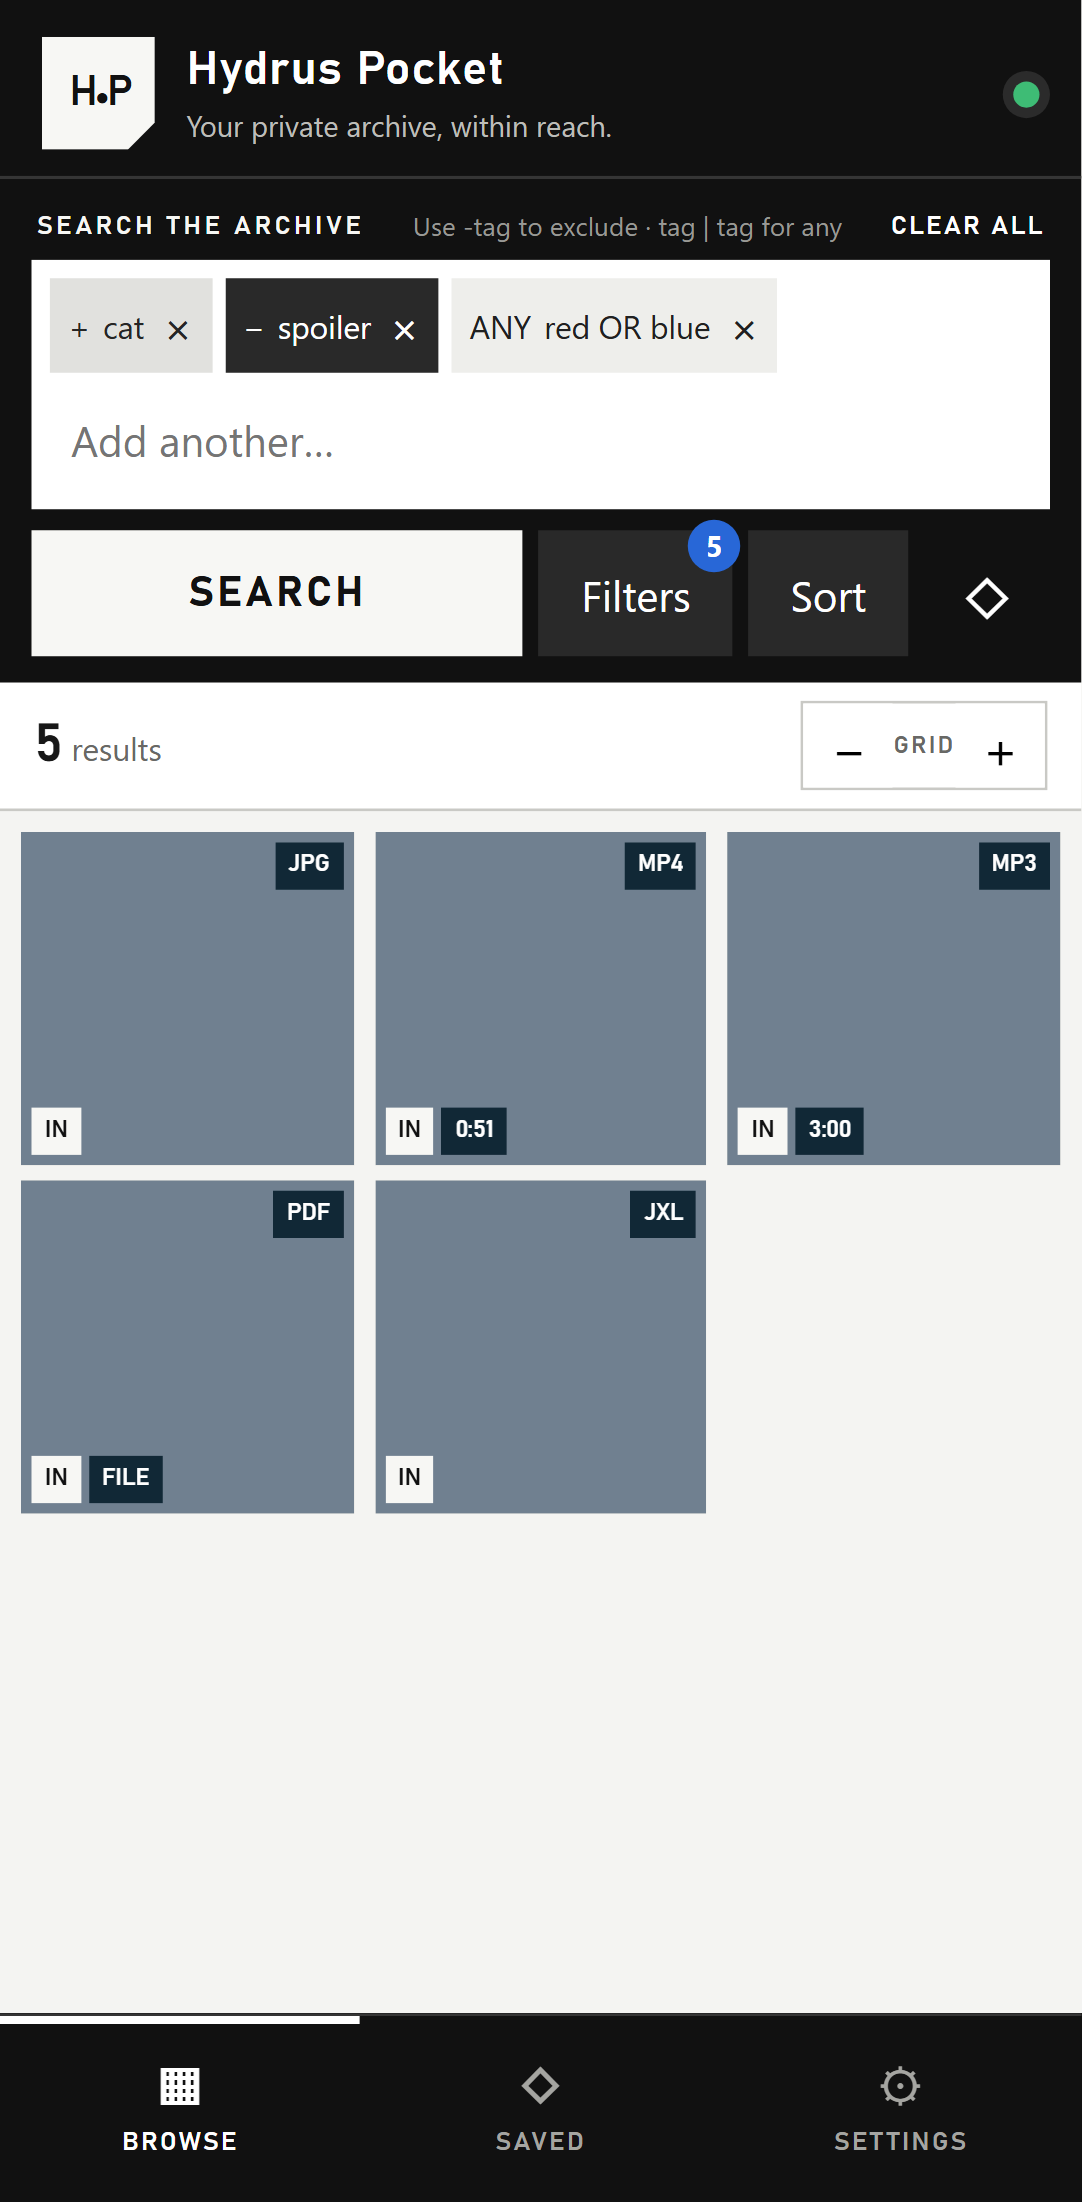
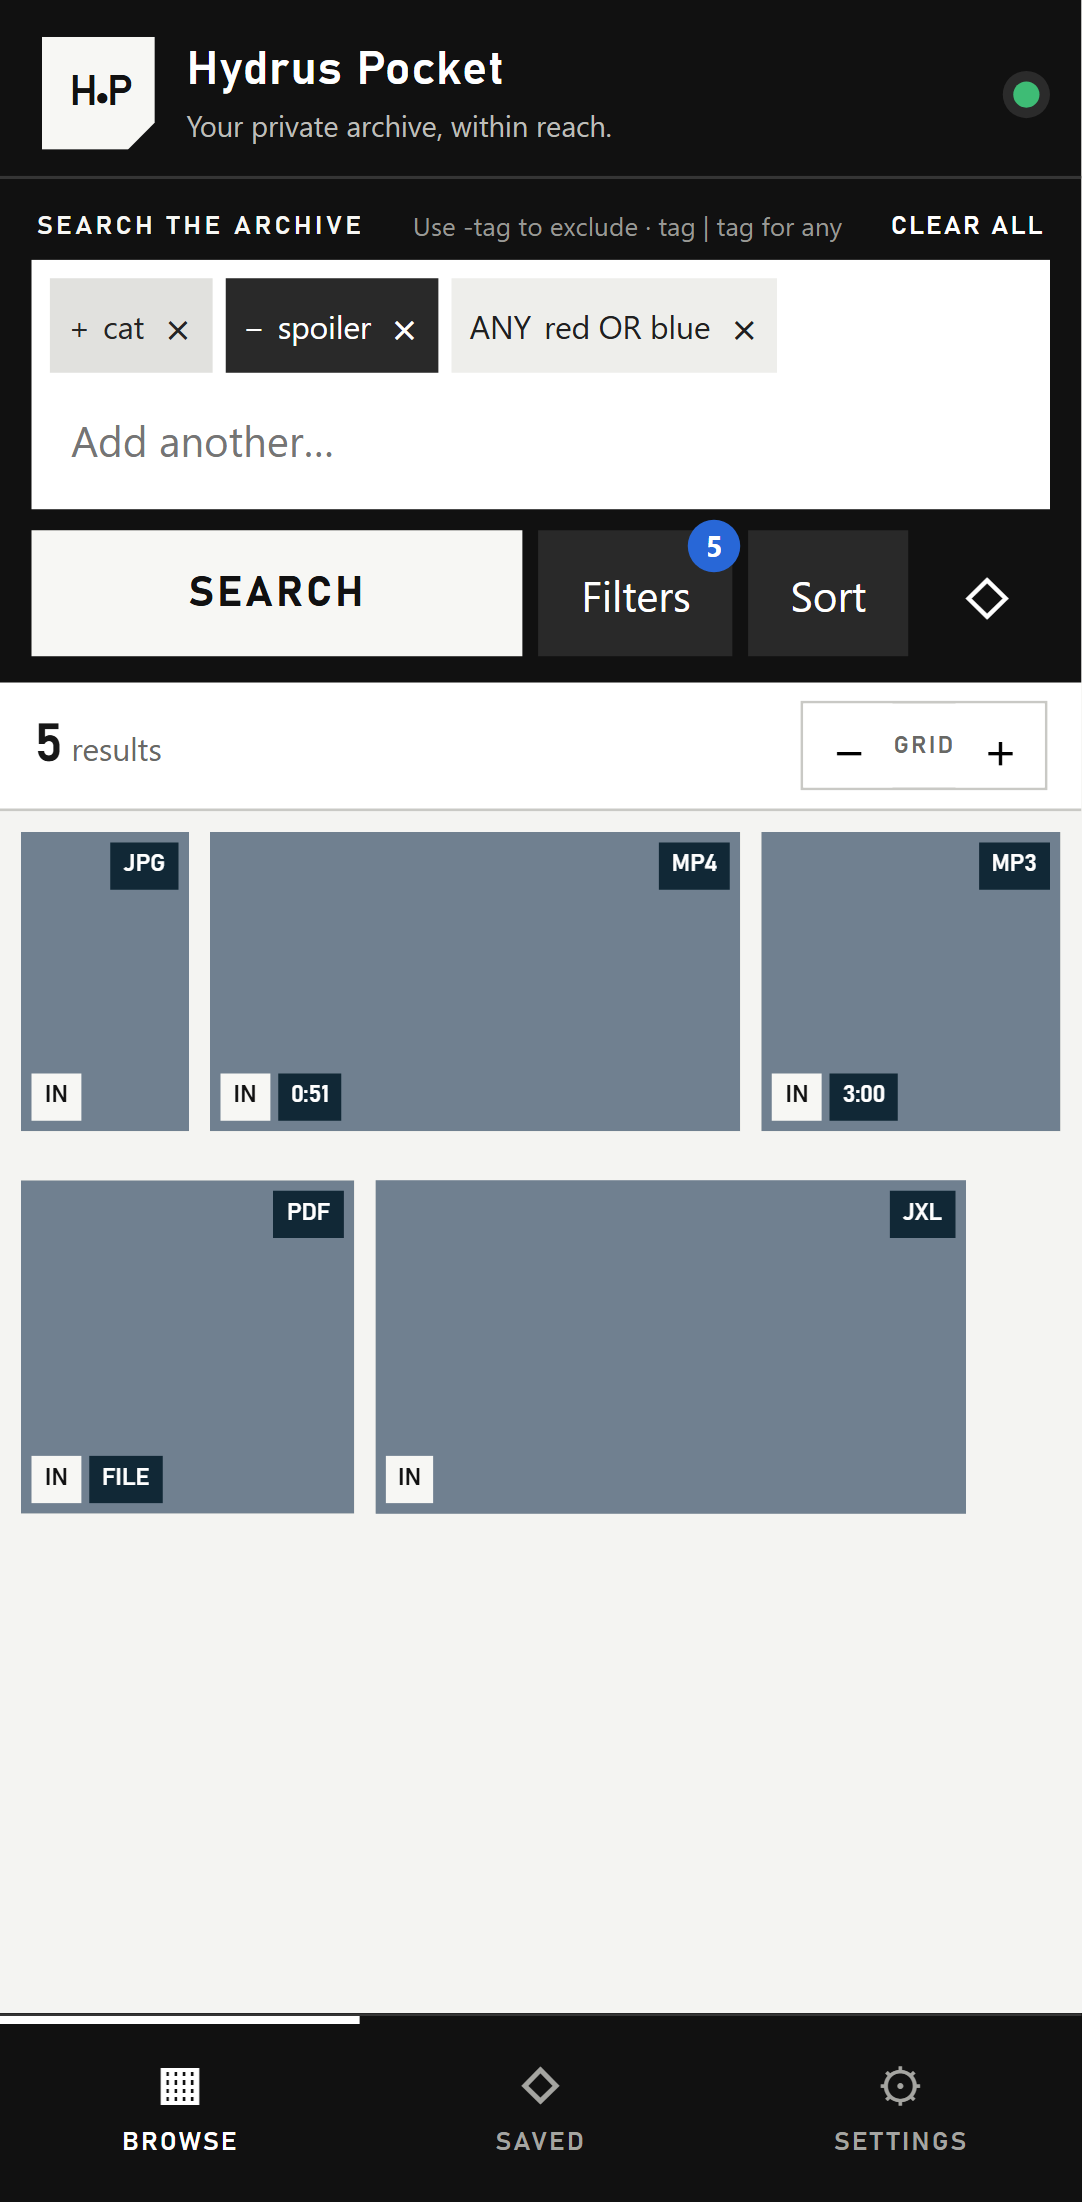
add a justified aspect-ratio gallery

Changed region(s): [[0.0, 0.3706, 0.976, 0.7103]]

diff --git a/src/components/Media.tsx b/src/components/Media.tsx
@@ -1,6 +1,7 @@
 import { useCallback, useEffect, useMemo, useRef, useState } from "react";
 import { useVirtualizer } from "@tanstack/react-virtual";
 import { api } from "../api";
+import { buildJustifiedRows } from "../galleryLayout";
 import { classifyMedia, mediaFileUrl, needsHydrusRender } from "../media";
 import {
   SESSION_MEDIA_CACHE_LIMIT,
@@ -166,29 +167,30 @@ export function ResultsGrid({
     Math.min(5, width > 850 ? Math.max(density, 5) : density),
   );
   const gap = 8;
-  const cell = (width - gap * (cols - 1)) / cols;
-  const rows = Math.ceil(fileIds.length / cols);
+  const targetHeight = (width - gap * (cols - 1)) / cols;
+  const rows = useMemo(
+    () => buildJustifiedRows(fileIds, media, width, targetHeight, gap),
+    [fileIds, media, width, targetHeight],
+  );
   const virtual = useVirtualizer({
-    count: rows,
+    count: rows.length,
     getScrollElement: () => parent.current,
-    estimateSize: () => cell + gap,
+    estimateSize: (index) => (rows[index]?.height ?? targetHeight) + gap,
     overscan: 4,
   });
   useEffect(() => {
     const saved = Number(localStorage.getItem(storageKey) ?? 0);
     const frame = requestAnimationFrame(() => virtual.scrollToOffset(saved));
     return () => cancelAnimationFrame(frame);
-  }, [virtual, storageKey, rows, width]);
+  }, [virtual, storageKey, rows.length, width]);
   const visible = virtual.getVirtualItems();
   useEffect(() => {
     const ids = virtual
       .getVirtualItems()
-      .flatMap((row) =>
-        fileIds.slice(row.index * cols, row.index * cols + cols),
-      )
+      .flatMap((row) => rows[row.index]?.items.map((item) => item.fileId) ?? [])
       .filter((id) => !media.has(id));
     if (ids.length) onNeed([...new Set(ids)].slice(0, 256));
-  }, [virtual, cols, fileIds, media, onNeed]);
+  }, [virtual, rows, media, onNeed]);
   return (
     <div
       className="grid-scroll"
@@ -204,21 +206,23 @@ export function ResultsGrid({
       }}
     >
       <div className="virtual-grid" style={{ height: virtual.getTotalSize() }}>
-        {visible.map((row) => (
-          <div
-            className="grid-row"
-            key={row.key}
-            style={{
-              height: cell,
-              transform: `translateY(${row.start}px)`,
-              gridTemplateColumns: `repeat(${cols},1fr)`,
-            }}
-          >
-            {fileIds
-              .slice(row.index * cols, row.index * cols + cols)
-              .map((id, col) => {
+        {visible.map((virtualRow) => {
+          const row = rows[virtualRow.index];
+          if (!row) return null;
+          return (
+            <div
+              className="grid-row"
+              key={virtualRow.key}
+              style={{
+                height: row.height,
+                transform: `translateY(${virtualRow.start}px)`,
+                gridTemplateColumns: row.items
+                  .map((item) => `${item.width}px`)
+                  .join(" "),
+              }}
+            >
+              {row.items.map(({ fileId: id, index }) => {
                 const m = media.get(id);
-                const index = row.index * cols + col;
                 return (
                   <button
                     className={`media-card ${selectedId === id ? "selected" : ""}`}
@@ -249,8 +253,9 @@ export function ResultsGrid({
                   </button>
                 );
               })}
-          </div>
-        ))}
+            </div>
+          );
+        })}
       </div>
     </div>
   );

diff --git a/src/galleryLayout.ts b/src/galleryLayout.ts
@@ -1,0 +1,53 @@
+import type { Media } from "./types";
+
+export type GalleryLayoutItem = {
+  fileId: number;
+  index: number;
+  ratio: number;
+  width: number;
+};
+
+export type GalleryLayoutRow = {
+  height: number;
+  items: GalleryLayoutItem[];
+};
+
+export function mediaAspectRatio(media?: Pick<Media, "width" | "height">) {
+  if (!media?.width || !media.height) return 1;
+  return Math.max(0.35, Math.min(4, media.width / media.height));
+}
+
+export function buildJustifiedRows(
+  fileIds: number[],
+  media: Map<number, Media>,
+  containerWidth: number,
+  targetHeight: number,
+  gap = 8,
+) {
+  const rows: GalleryLayoutRow[] = [];
+  let pending: Omit<GalleryLayoutItem, "width">[] = [];
+  let ratioTotal = 0;
+
+  const closeRow = (last: boolean) => {
+    if (!pending.length) return;
+    const available = Math.max(1, containerWidth - gap * (pending.length - 1));
+    const fittedHeight = available / ratioTotal;
+    const height = last ? Math.min(targetHeight, fittedHeight) : fittedHeight;
+    rows.push({
+      height,
+      items: pending.map((item) => ({ ...item, width: item.ratio * height })),
+    });
+    pending = [];
+    ratioTotal = 0;
+  };
+
+  fileIds.forEach((fileId, index) => {
+    const ratio = mediaAspectRatio(media.get(fileId));
+    pending.push({ fileId, index, ratio });
+    ratioTotal += ratio;
+    const projected = ratioTotal * targetHeight + gap * (pending.length - 1);
+    if (projected >= containerWidth) closeRow(false);
+  });
+  closeRow(true);
+  return rows;
+}

diff --git a/src/galleryLayout.test.ts b/src/galleryLayout.test.ts
@@ -1,0 +1,39 @@
+import { describe, expect, it } from "vitest";
+import { buildJustifiedRows, mediaAspectRatio } from "./galleryLayout";
+import type { Media } from "./types";
+
+const item = (fileId: number, width: number, height: number) =>
+  ({ fileId, width, height }) as Media;
+
+describe("justified gallery layout", () => {
+  it("preserves portrait and landscape proportions while closing full rows", () => {
+    const media = new Map([
+      [1, item(1, 1600, 900)],
+      [2, item(2, 800, 1200)],
+      [3, item(3, 1000, 1000)],
+    ]);
+    const rows = buildJustifiedRows([1, 2, 3], media, 400, 150, 8);
+    expect(rows).toHaveLength(1);
+    expect(rows[0].items.map((entry) => entry.ratio)).toEqual([
+      1600 / 900,
+      800 / 1200,
+      1,
+    ]);
+    expect(
+      rows[0].items.reduce((sum, entry) => sum + entry.width, 0) + 16,
+    ).toBeCloseTo(400);
+  });
+
+  it("leaves the final incomplete row at its natural target height", () => {
+    const media = new Map([[1, item(1, 1600, 900)]]);
+    const [row] = buildJustifiedRows([1], media, 400, 150, 8);
+    expect(row.height).toBe(150);
+    expect(row.items[0].width).toBeCloseTo(266.67, 1);
+  });
+
+  it("uses a square fallback and bounds pathological ratios", () => {
+    expect(mediaAspectRatio()).toBe(1);
+    expect(mediaAspectRatio({ width: 1, height: 100 })).toBe(0.35);
+    expect(mediaAspectRatio({ width: 100, height: 1 })).toBe(4);
+  });
+});

diff --git a/server/app.ts b/server/app.ts
@@ -187,7 +187,7 @@ export async function buildApp(
       return {
         gateway: "ok",
         hydrus: missingPermissions.length || unsupportedApi ? "error" : "ok",
-        version: "1.0.0",
+        version: "1.1.0",
         hydrusVersion: version.hydrus_version,
         apiVersion: version.version,
         permissions: permissions.basic_permissions,
@@ -214,7 +214,7 @@ export async function buildApp(
         return {
           gateway: "ok",
           hydrus: "error",
-          version: "1.0.0",
+          version: "1.1.0",
           code: error.code,
           message: error.message,
           lastSuccess: hydrus.getLastSuccess(),

diff --git a/e2e/app.spec.ts b/e2e/app.spec.ts
@@ -20,8 +20,8 @@ const files = [
     fileId: 1,
     ext: "jpg",
     filetypeHuman: "jpeg",
-    width: 1600,
-    height: 1200,
+    width: 900,
+    height: 1600,
     duration: null,
     hasAudio: false,
   },

diff --git a/docs/AUDIT.md b/docs/AUDIT.md
@@ -2,17 +2,17 @@
 
 This audit maps the controlling `prompt.txt` scope to current evidence. “Automated” means repeatable local tests; “live” means the real Hydrus v649 / Client API v83 or the deployed tailnet service; “external” requires the physical Pixel or a user-designated mutable file.
 
-## Proven in v1.0.0
+## Proven through v1.1.0
 
 - Architecture/security: same-origin Fastify gateway, localhost Hydrus, renewable server-side session key, no generic proxy/CORS, validated bodies/queries, redacted headers, CSP/security headers, rate/body limits, `no-store` originals/API, secret scan, and tailnet-only HTTPS.
 - Health/recovery: diagnostic health, strict readiness, API-version/permission checks, timeout and error codes, session renewal, aborted-stream cleanup, graceful shutdown, continuously capped logs, crash restart, startup registration, health command, uninstall, update, and executable rollback path.
 - Search: debounced/cancelled display-tag autocomplete with counts, positive/negative/system chips, OR groups, clear/Backspace, file/tag domains, limits, all required sort enums, date/media/state/audio/duration/dimension/megapixel/size/orientation/aspect filters, URL serialization, saved/recent searches, and starter shortcuts.
-- Large results: 500 default, 10,000 ceiling, 128 client / 256 server metadata batches, cancelled stale requests, duplicate suppression, 768-entry metadata LRU, row virtualization, overscan/prefetch, stable ordering, lazy thumbnails, density preference, and Back/reload scroll restoration.
+- Large results: 500 default, 10,000 ceiling, 128 client / 256 server metadata batches, cancelled stale requests, duplicate suppression, 768-entry metadata LRU, justified aspect-ratio row virtualization, overscan/prefetch, stable ordering, lazy thumbnails, density preference, and Back/reload scroll restoration.
 - Mixed media: original-quality browser-native images plus quality-95 Hydrus-rendered JPEG XL with thumbnail placeholders, a page-session 200 MB LRU image cache warmed bidirectionally by six workers and retained across viewer reopenings, video poster/metadata warming, double-tap/double-click zoom, pinch/pan, swipe navigation, swipe-down close, video/audio native seeking, Range relay, audio placeholder, animation/inbox/duration/unsupported indicators, and metadata fallback.
 - Collection flow: tag ribbon on every viewed item, tag-to-current-search refinement, clean tag exploration branches with Back restoration, auto-applied chips/filters/sorts/limits, and retained results/metadata during background refinement.
 - Organization: display/storage tag separation, local-service selection, storage autocomplete, deduplicated namespace groups, guarded pending UI, authoritative refresh, duplicate-submit prevention, hash-based local tag mutations, and hash-based archive/unarchive. Delete/petition/moderation routes do not exist.
 - PWA/mobile/accessibility: Android manifest with 192/512/maskable PNGs, standalone shell, bounded thumbnail cache, uncached originals, safe update prompt, clear-cache control, bottom navigation/sheets, 48 px controls, keyboard/Back behavior, accessible labels/status announcements, reduced motion, responsive portrait/desktop layouts, and tested light/dark contrast.
-- Automated evidence: `npm run check:release` passes 33 Vitest tests, 21 Playwright workflows across Pixel-size/desktop/dark projects, WCAG A/AA serious+critical audit, production build, and production dependency audit. Gateway integration covers health/readiness, auth/session renewal, search, autocomplete, metadata, thumbnails, JPEG XL rendering, Range/invalid Range, timeouts, permission errors, tag writes, archive writes, and dynamic static-asset routing.
+- Automated evidence: `npm run check:release` passes 36 Vitest tests, 21 Playwright workflows across Pixel-size/desktop/dark projects, WCAG A/AA serious+critical audit, production build, and production dependency audit. Gateway integration covers health/readiness, auth/session renewal, search, autocomplete, metadata, thumbnails, JPEG XL rendering, Range/invalid Range, timeouts, permission errors, tag writes, archive writes, and dynamic static-asset routing.
 - Live read-only evidence: real autocomplete, negative/OR/date/media/dimension/duration/ratio predicates, every required sort enum, broad bounded search, metadata, thumbnail, image/video/application discovery, a real 206 byte range, local health/readiness, HTTPS health, manifest, service worker, secret absence, and gateway crash recovery.
 
 ## Post-v1 operational follow-ups

diff --git a/docs/PERFORMANCE.md b/docs/PERFORMANCE.md
@@ -2,4 +2,4 @@
 
 Release defaults: 500 search results, 128 browser metadata batch, 256 gateway ceiling, four virtualized overscan rows, three portrait columns, and 20-second Hydrus timeout. The in-memory metadata cache is capped at 768 most-recently-used files; older entries are refetched if revisited. Once the current media is ready, six workers fill a page-session 200 MB LRU image cache in next/current/previous proximity order across as many as 160 surrounding positions. Individual cached blobs are capped at 24 MB. The cache survives viewer close/reopen and is released with the browser page session. The next two videos warm metadata and poster frames without downloading full videos. Thumbnail Cache Storage is capped at 300 entries and seven days. Original media and API responses are `no-store` and never enter the offline cache.
 
-V1.0.0 production browser bundle (2026-07-11): 337.06 KiB application JavaScript / 106.45 KiB gzip, 5.81 KiB update helper / 2.40 KiB gzip, and 18.86 KiB CSS / 4.97 KiB gzip. The PWA precache is 354.02 KiB. A representative 3200×1800 JXL rendered through Hydrus to quality-95 JPEG in 435 ms and 1.06 MB on the production host; repeat renders benefit from Hydrus' image cache and the next eligible files use the viewer's session-wide RAM cache. Target-phone landscape frame pacing, extended video-start latency, and gateway long-stream memory remain post-v1 operational measurements.
+V1.1.0 production browser bundle (2026-07-11): 337.57 KiB application JavaScript / 106.64 KiB gzip, 5.81 KiB update helper / 2.40 KiB gzip, and 18.86 KiB CSS / 4.97 KiB gzip. The PWA precache is 354.53 KiB. A representative 3200×1800 JXL rendered through Hydrus to quality-95 JPEG in 435 ms and 1.06 MB on the production host; repeat renders benefit from Hydrus' image cache and the next eligible files use the viewer's session-wide RAM cache. Justified gallery rows are computed from metadata dimensions and virtualized with exact per-row height estimates. Target-phone landscape frame pacing, extended video-start latency, and gateway long-stream memory remain post-v1 operational measurements.

diff --git a/STATUS.md b/STATUS.md
@@ -1,9 +1,9 @@
 # Status
 
-Phase: v1.0.0 release validation and publication.
+Phase: v1.1.0 aspect-ratio gallery validation and publication.
 
 Completed: greenfield React/Fastify PWA; secure credential/session boundary; complete search composer, filters, sorts, limits, bounded/virtualized result flow, mixed-media viewer, tag editor, archive API, saved/recent searches, health/settings/offline states, PWA, tests, Windows deployment/auto-start, security/operations documentation.
 
 Active defects: none confirmed. Real Hydrus search/autocomplete/metadata/thumbnail/JPEG XL render/video/Range paths pass. Production is installed at `https://desktop-gtpsl86-1.tailddb64.ts.net` with tailnet-only Serve, per-user auto-start, bounded logs, and verified crash restart. Physical Pixel visual/landscape/TalkBack and longer remote-network gates remain. Manual hardening: remove the unused URL, notes, and ratings permissions retained by Hydrus during approval.
 
-Release gates: lint, typecheck, 33 Vitest unit/integration tests, 21 mocked Playwright browser workflows, live read-only Playwright verification, production PWA build, dependency audit, secret scan, real read-only integration, HTTPS, tested rollback/restore, crash recovery, and GitHub Actions enforcement passed or are configured. Automated Axe WCAG A/AA checks report no serious or critical findings in Android, desktop, or dark-mode layouts. Real mutation and physical Android/accessibility gates remain pending.
+Release gates: lint, typecheck, 36 Vitest unit/integration tests, 21 mocked Playwright browser workflows, live read-only Playwright verification, production PWA build, dependency audit, secret scan, real read-only integration, HTTPS, tested rollback/restore, crash recovery, and GitHub Actions enforcement passed or are configured. Automated Axe WCAG A/AA checks report no serious or critical findings in Android, desktop, or dark-mode layouts. Real mutation and physical Android/accessibility gates remain pending.

diff --git a/README.md b/README.md
@@ -2,7 +2,7 @@
 
 Hydrus Pocket is a phone-first PWA for privately searching, filtering, sorting, browsing, viewing, and lightly organizing a mixed-media Hydrus archive over Tailscale. A localhost-only Node gateway owns the Hydrus credential; browsers never receive it.
 
-Version 1.0.0 adds browser-compatible JPEG XL viewing, a 200 MB bidirectional page-session media cache, tag-led collection navigation, Android-native zoom gestures, and a monochrome Hydrus-inspired interface.
+Version 1.1.0 adds browser-compatible JPEG XL viewing, a 200 MB bidirectional page-session media cache, tag-led collection navigation, Android-native zoom gestures, a monochrome Hydrus-inspired interface, and a justified gallery that preserves each file's aspect ratio.
 
 ## Current machine quick start
 

diff --git a/docs/RELEASE_CHECKLIST.md b/docs/RELEASE_CHECKLIST.md
@@ -8,7 +8,7 @@
 - [x] Bounded search/metadata, virtualization, cancellation, Range streaming
 - [x] Search/filter/sort/saved/view/tag/archive implementation
 - [x] Installable PWA with bounded thumbnail cache and uncached originals
-- [x] Lint, typecheck, 33 Vitest tests, and production build
+- [x] Lint, typecheck, 36 Vitest tests, and production build
 - [x] 21 mocked Playwright workflows across Android, desktop, and dark mode
 - [x] Axe WCAG A/AA scan: no serious or critical findings
 - [x] Live deployed read-only Playwright workflow

diff --git a/CHANGELOG.md b/CHANGELOG.md
@@ -1,5 +1,10 @@
 # Changelog
 
+## 1.1.0 — 2026-07-11
+
+- Replaced uniform square gallery cells with virtualized justified rows that preserve portrait, landscape, and square media proportions.
+- Retained chronological/search order, edge-to-edge row packing, natural final-row width, density controls, and exact Back/reload scroll restoration.
+
 ## 1.0.0 — 2026-07-11
 
 - Established the final monochrome Hydrus-inspired interface with neutral utility surfaces, blue focus/selection, and semantic-only status color.
